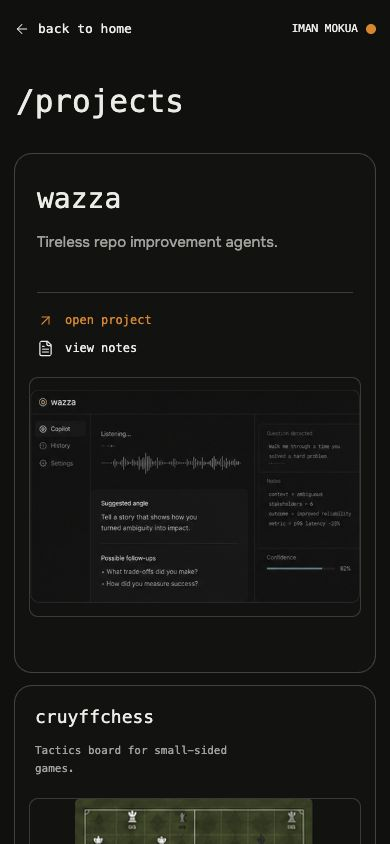
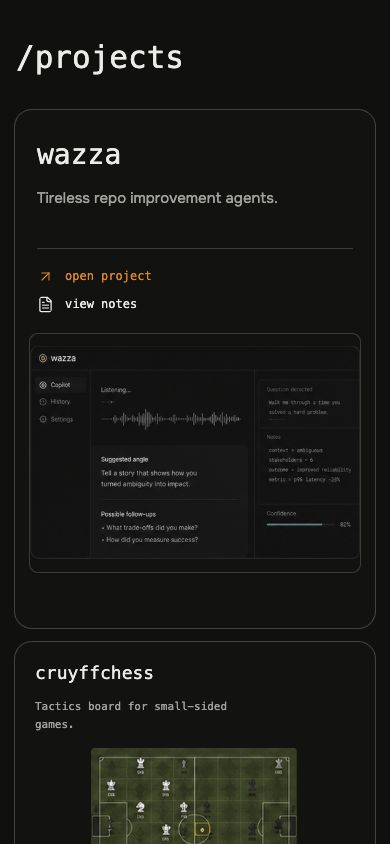
Apply final projects grid annotations

diff --git a/src/features/projects/projects.module.css b/src/features/projects/projects.module.css
@@ -27,8 +27,7 @@
 
 .backLink,
 .identity,
-.cardLink,
-.footer a {
+.cardLink {
   color: inherit;
   text-decoration: none;
 }
@@ -47,15 +46,13 @@
 }
 
 .backLink:hover,
-.identity:hover,
-.footer a:hover {
+.identity:hover {
   opacity: 0.68;
 }
 
 .backLink:focus-visible,
 .identity:focus-visible,
-.cardLink:focus-visible,
-.footer a:focus-visible {
+.cardLink:focus-visible {
   outline: 1px solid currentColor;
   outline-offset: 4px;
 }
@@ -125,6 +122,11 @@
   font-weight: 500;
   line-height: 1.2;
   letter-spacing: 0;
+  transition: color 180ms ease;
+}
+
+.card:hover .cardTitle {
+  color: #ee8a2f;
 }
 
 .cardDescription {
@@ -228,12 +230,12 @@
 
 .cruyffchess {
   grid-column: 11 / span 6;
-  grid-row: 1;
+  grid-row: 1 / span 2;
 }
 
-.incourseai {
+.datagolf {
   grid-column: 11 / span 6;
-  grid-row: 2;
+  grid-row: 3;
 }
 
 .tall .cardInner {
@@ -257,43 +259,14 @@
   grid-row: 3 / span 2;
 }
 
-.datagolf {
+.incourseai {
   grid-column: 7 / span 4;
   grid-row: 3 / span 2;
-}
-
-.mini-cursorish {
-  grid-column: 11 / span 6;
-  grid-row: 3;
 }
 
 .mem-arctec {
   grid-column: 11 / span 6;
   grid-row: 4;
-}
-
-.footer {
-  display: flex;
-  align-items: center;
-  justify-content: space-between;
-  padding: 34px 0 2px;
-  color: var(--project-muted);
-  font-family: ui-monospace, SFMono-Regular, Menlo, Monaco, Consolas,
-    monospace;
-  font-size: 11px;
-}
-
-.footer p {
-  margin: 0;
-}
-
-.footerNav {
-  display: flex;
-  gap: 30px;
-}
-
-.footer a {
-  transition: opacity 160ms ease;
 }
 
 @media (max-width: 1100px) {
@@ -310,27 +283,22 @@
 
   .cruyffchess {
     grid-column: 1 / span 3;
-    grid-row: 3;
+    grid-row: 3 / span 2;
   }
 
-  .incourseai {
+  .datagolf {
     grid-column: 4 / span 3;
     grid-row: 3;
   }
 
   .baby-fathom {
     grid-column: 1 / span 3;
-    grid-row: 4 / span 2;
+    grid-row: 5 / span 2;
   }
 
-  .datagolf {
+  .incourseai {
     grid-column: 4 / span 3;
     grid-row: 4 / span 2;
-  }
-
-  .mini-cursorish {
-    grid-column: 1 / span 3;
-    grid-row: 6;
   }
 
   .mem-arctec {
@@ -396,17 +364,6 @@
     font-size: 11px;
     line-height: 1.65;
   }
-
-  .footer {
-    align-items: flex-start;
-    gap: 24px;
-  }
-
-  .footerNav {
-    display: grid;
-    grid-template-columns: repeat(2, auto);
-    gap: 12px 22px;
-  }
 }
 
 @media (max-width: 440px) {
@@ -435,8 +392,8 @@
   .backLink,
   .identity,
   .card,
-  .cardLink,
-  .footer a {
+  .cardTitle,
+  .cardLink {
     transition: none;
   }
 

diff --git a/src/features/projects/project-data.ts b/src/features/projects/project-data.ts
@@ -29,7 +29,7 @@ export const projects: Project[] = [
     id: "cruyffchess",
     name: "cruyffchess",
     description: "Tactics board for small-sided games.",
-    layout: "landscape",
+    layout: "tall",
     media: {
       kind: "image",
       poster: "/projects/posters/cruyffchess.png",
@@ -37,15 +37,15 @@ export const projects: Project[] = [
     },
   },
   {
-    id: "incourseai",
-    name: "incourseai",
+    id: "datagolf",
+    name: "datagolf",
     description:
-      "General AI agents that help college students learn and complete coursework more effectively.",
+      "Coding golf for analyzing data using prompts instead of SQL statements.",
     layout: "landscape",
     media: {
       kind: "image",
-      poster: "/projects/posters/incourseai.png",
-      alt: "InCourse AI coursework workflow",
+      poster: "/projects/posters/datagolf.png",
+      alt: "Datagolf code challenge interface",
     },
   },
   {
@@ -61,27 +61,15 @@ export const projects: Project[] = [
     },
   },
   {
-    id: "datagolf",
-    name: "datagolf",
+    id: "incourseai",
+    name: "incourseai",
     description:
-      "Coding golf for analyzing data using prompts instead of SQL statements.",
+      "General AI agents that help college students learn and complete coursework more effectively.",
     layout: "tall",
     media: {
       kind: "image",
-      poster: "/projects/posters/datagolf.png",
-      alt: "Datagolf code challenge interface",
-    },
-  },
-  {
-    id: "mini-cursorish",
-    name: "mini_cursorISH",
-    description:
-      "Mini Claude Code that automatically detects and fixes small bugs in my portfolio site.",
-    layout: "compact",
-    media: {
-      kind: "image",
-      poster: "/projects/posters/mini-cursorish.png",
-      alt: "Mini CursorISH code edit interface",
+      poster: "/projects/posters/incourseai.png",
+      alt: "InCourse AI coursework workflow",
     },
   },
   {

diff --git a/src/app/projects/page.tsx b/src/app/projects/page.tsx
@@ -1,5 +1,4 @@
 import { ProjectsBento } from "@/features/projects/ProjectsBento";
-import { ProjectsFooter } from "@/features/projects/ProjectsFooter";
 import { ProjectsHeader } from "@/features/projects/ProjectsHeader";
 import styles from "@/features/projects/projects.module.css";
 
@@ -10,7 +9,6 @@ export default function ProjectsPage() {
         <ProjectsHeader />
         <h1 className={styles.title}>/projects</h1>
         <ProjectsBento />
-        <ProjectsFooter />
       </div>
     </main>
   );

diff --git a/design-qa.md b/design-qa.md
@@ -22,8 +22,8 @@ No actionable P0, P1, or P2 differences remain.
 - Spacing and layout rhythm: the 16-column desktop grid reproduces the featured-left and stacked-right proportions. The top and lower rows align with the source, cards use 18px radii, and the shell keeps narrow edge padding at wide viewports.
 - Colors and visual tokens: the near-black background, low-contrast card borders, warm white type, muted body copy, and orange action/status accent match the source treatment.
 - Image quality and asset fidelity: temporary project posters are direct crops from the approved visual source and use `object-fit: contain`. They remain sharp at their rendered sizes and can be replaced by final screenshots or video URLs without layout changes.
-- Copy and content: production project descriptions were preserved instead of adopting mock-only copy. The requested subtitle, top divider, `dogbed_db`, and `ss-devices-proj` were removed.
-- Responsive behavior: at 390 x 844 the grid stacks into one column, all seven cards remain readable in the intended order, and `scrollWidth` equals the 390px viewport width.
+- Copy and content: production project descriptions were preserved instead of adopting mock-only copy. The requested subtitle, top divider, footer, `dogbed_db`, `ss-devices-proj`, and `mini_cursorISH` were removed.
+- Responsive behavior: at 390 x 844 the grid stacks into one column, all six cards remain readable in the intended order, and `scrollWidth` equals the 390px viewport width.
 - Interaction and accessibility: Back to Home navigation was exercised successfully. Links have visible focus states, project imagery has alt text, and the page uses semantic headings, articles, and navigation regions.
 
 ## Comparison History
@@ -32,6 +32,7 @@ No actionable P0, P1, or P2 differences remain.
 2. Initial pass found P2 image cropping in Wazza, Baby Fathom, and InCourse AI. Fixed by containing the supplied artwork and matching the featured media frame dimensions. Post-fix evidence: `design-qa/focused-comparison.png`.
 3. Route-change testing found P2 zero-height image warnings. Fixed by adding stable minimum media heights. A fresh page load produced no console errors or warnings from the projects feature.
 4. Annotation pass enlarged the Wazza media frame and exchanged the complete InCourse AI and Datagolf card positions. Datagolf now owns the taller slot, and the same order is preserved on mobile.
+5. Follow-up annotations moved InCourse AI into Datagolf's large slot, returned Datagolf to a compact slot, removed Mini CursorISH and the footer, and expanded Cruyffchess to keep both desktop grid columns filled. Project titles now use the orange accent on card hover.
 
 ## Primary Checks
 
